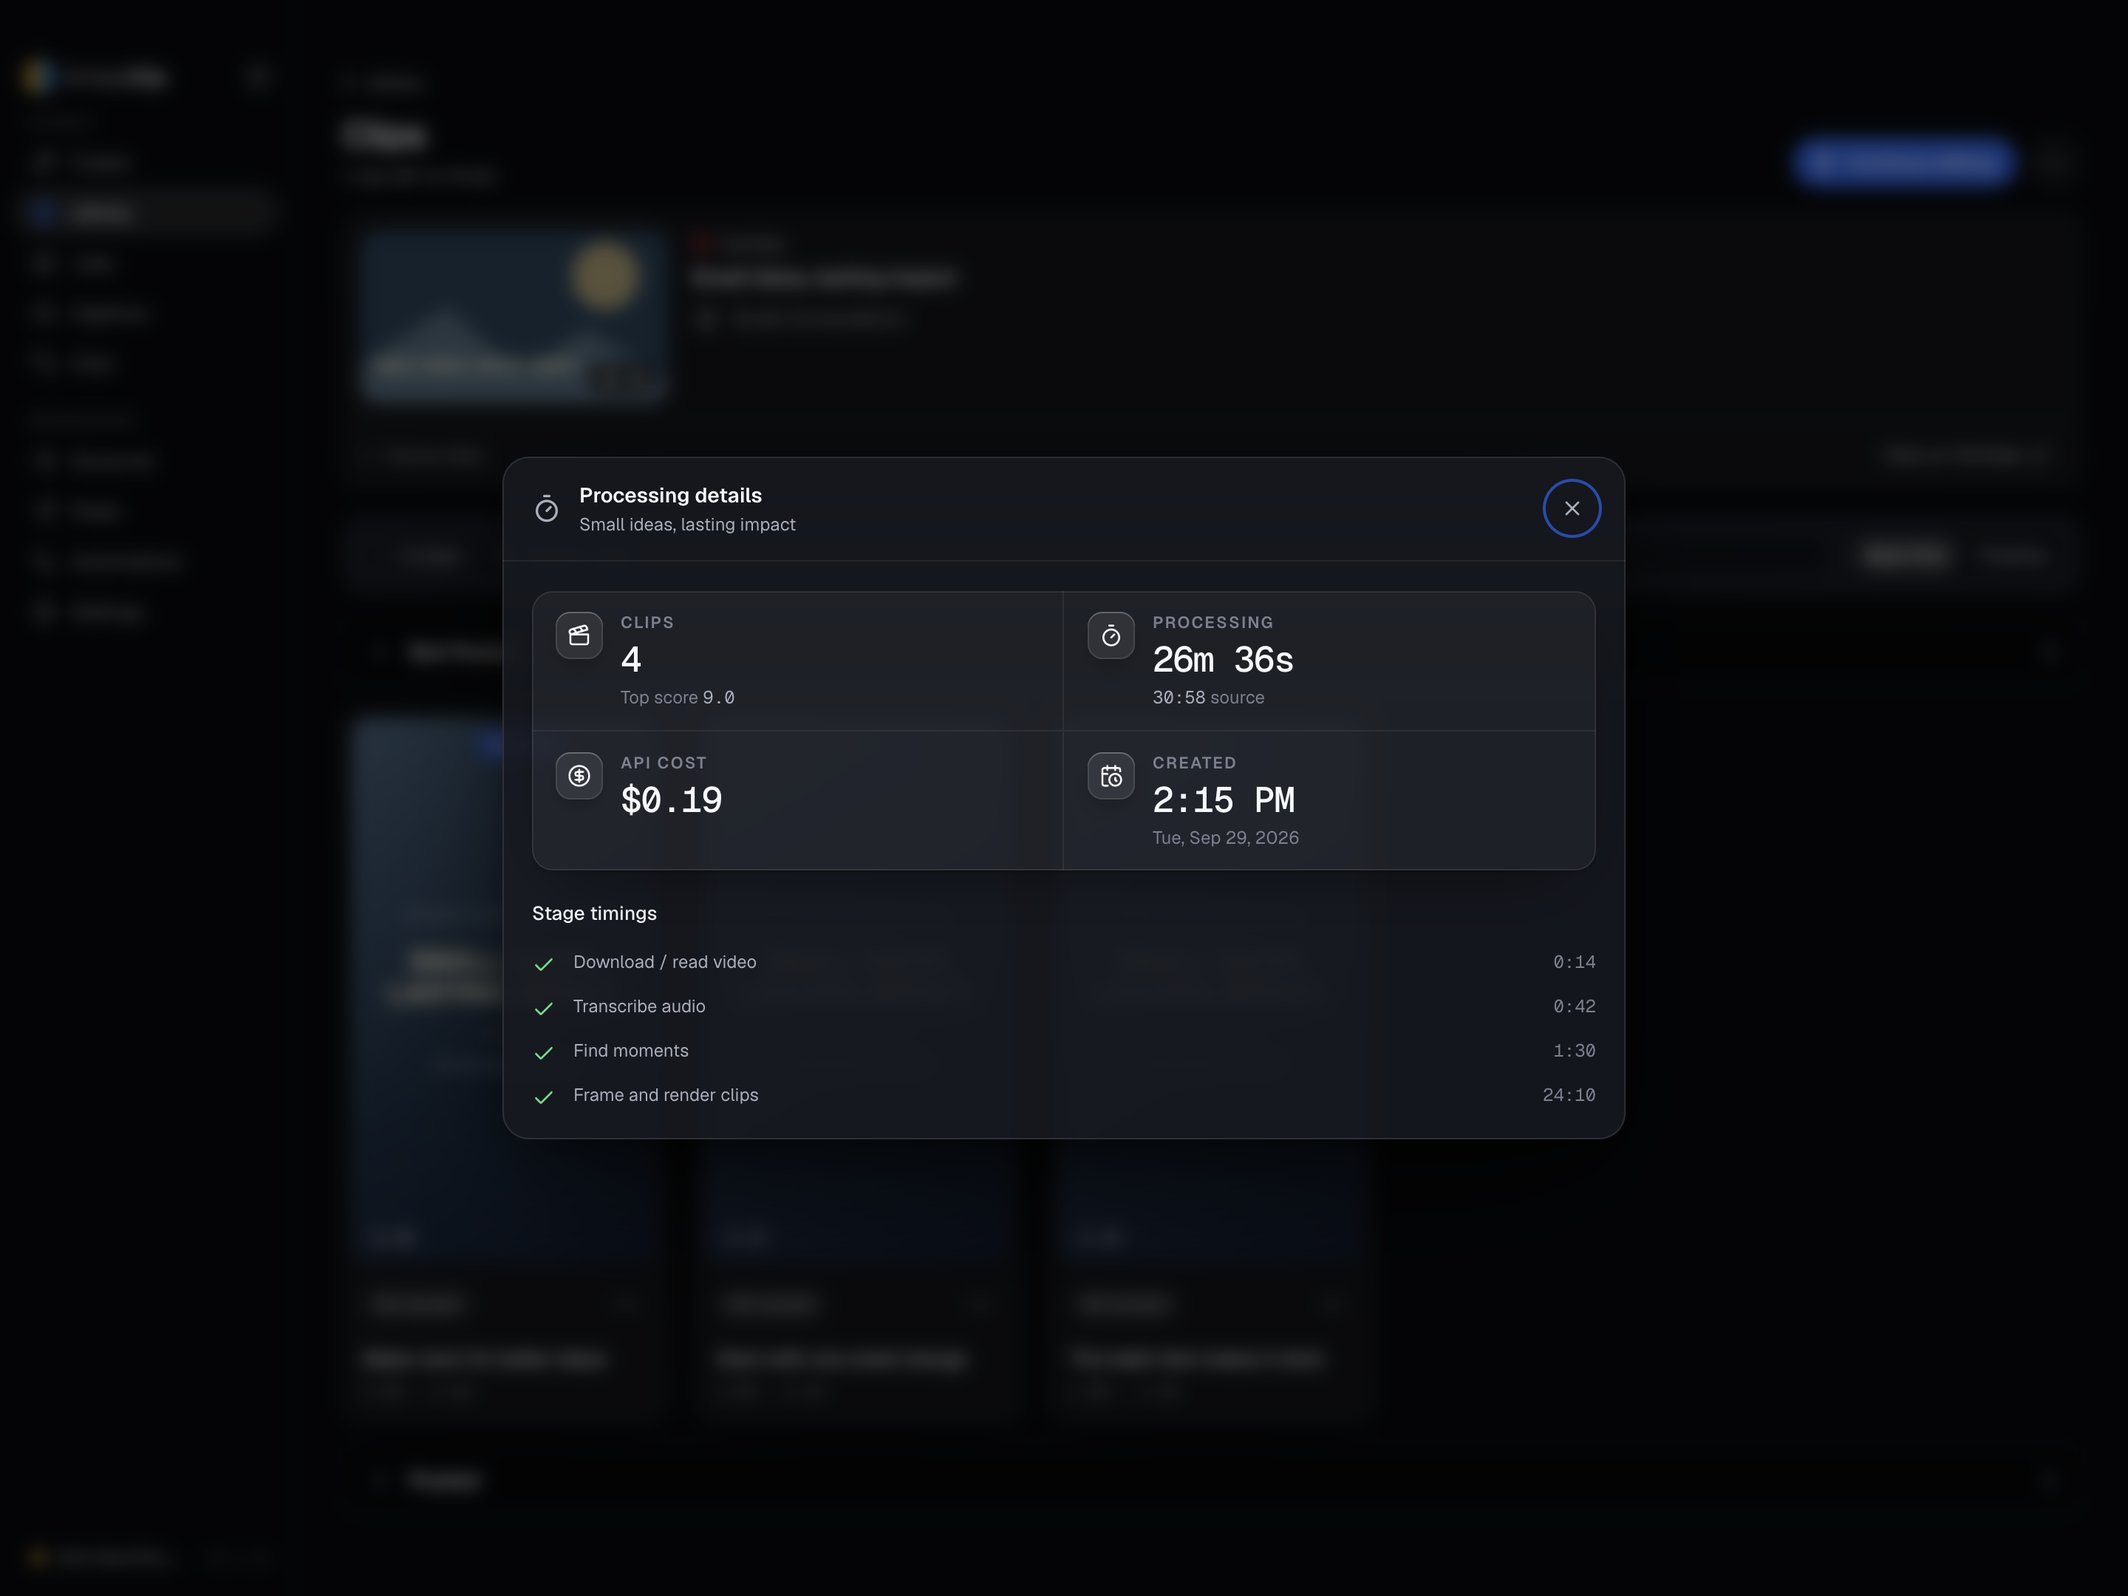
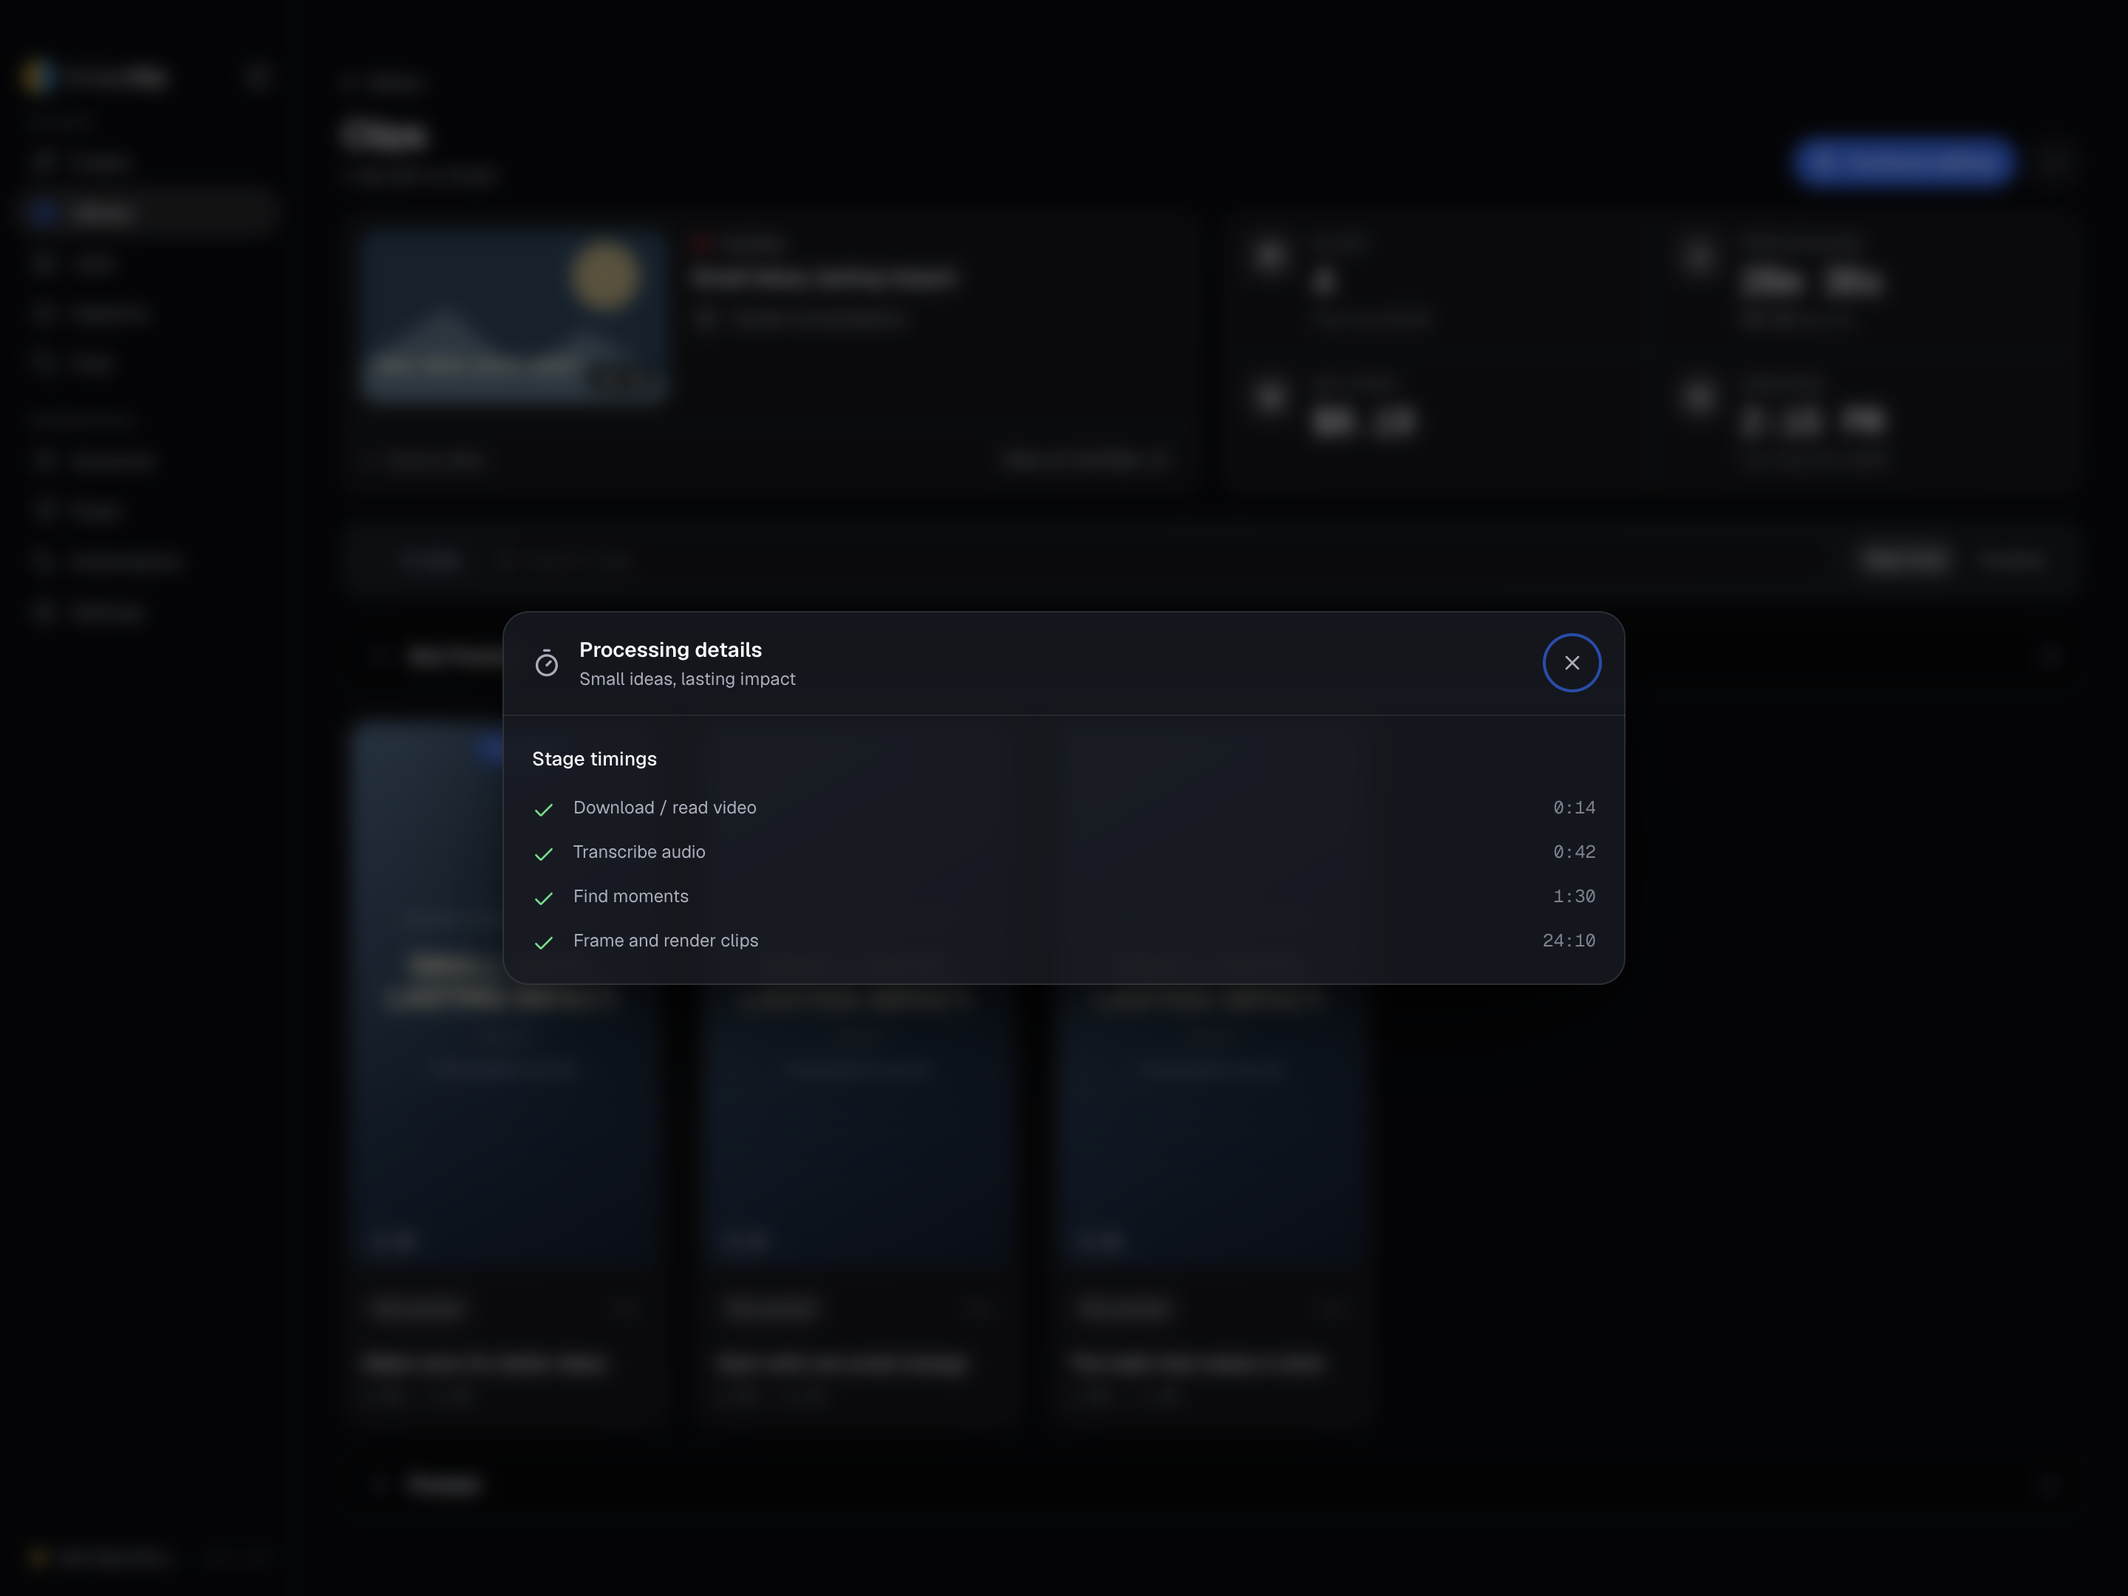
fix(library): keep run stats beside the source preview

diff --git a/src/renderer/components/ClipList.tsx b/src/renderer/components/ClipList.tsx
@@ -13,6 +13,7 @@ import { EditorialWeights } from './EditorialWeights'
 import { defaultWeights, editorialScore } from '../../shared/editorial'
 import { SourcePreview } from './SourcePicker'
 import { RunDetailsDialog } from './RunDetailsDialog'
+import { RunStats } from './RunStats'
 import { ActionMenu } from './ui/ActionMenu'
 import { AddToAutomationDialog } from './AddToAutomationDialog'
 import { PostDialog, type PostableClip } from './PostDialog'
@@ -352,12 +353,13 @@ function GeneratedClipList({ output, outputDir: runDirectory, leading, onNewClip
         </Callout>
       )}
 
-      <div className="mt-4">
-        <SourcePreview key={output.source_video_url} source={output.source_video_url} readOnly saved={{
+      <div className="mt-4 grid gap-4 min-[1100px]:grid-cols-2">
+        <SourcePreview key={output.source_video_url} className="min-w-0" source={output.source_video_url} readOnly saved={{
           title: output.source_video_title || 'Untitled video',
           channel: output.source_video_channel ?? null,
           durationSeconds: output.source_video_duration_seconds
         }} />
+        <RunStats output={output} costs={costs} videoSpeed={typeof videoSpeed === 'number' && videoSpeed > 1 ? videoSpeed : null} />
       </div>
 
       {framingNotice && (
@@ -486,7 +488,7 @@ function GeneratedClipList({ output, outputDir: runDirectory, leading, onNewClip
       {confirm && <ConfirmDialog request={confirm} onClose={closeConfirm} />}
       {posting && <PostDialog clips={posting} onClose={() => setPosting(null)} onNavigate={onNavigate} />}
       {inspectEdits && <EditInspector outputDir={outputDir} onClose={closeInspector} />}
-      {runDetails && <RunDetailsDialog output={output} costs={costs} videoSpeed={typeof videoSpeed === 'number' && videoSpeed > 1 ? videoSpeed : null} onClose={closeRunDetails} />}
+      {runDetails && <RunDetailsDialog output={output} onClose={closeRunDetails} />}
       {bankClips && outputDir && <AddToAutomationDialog
         outputDir={outputDir}
         clipIndices={bankClips}

diff --git a/src/renderer/components/YouTubeSourcePreview.tsx b/src/renderer/components/YouTubeSourcePreview.tsx
@@ -2,13 +2,13 @@ import { useEffect, useState } from 'react'
 import { Check, ExternalLink, RefreshCw, X, Youtube } from 'lucide-react'
 import type { YouTubePreview } from '../../shared/youtube-preview'
 import { getApi } from '../lib/ipc'
-import { formatTimecode } from '../lib/utils'
+import { cn, formatTimecode } from '../lib/utils'
 import { Button } from './ui/Button'
 import { Skeleton } from './ui/Skeleton'
 
 export type SavedSourceMetadata = Pick<YouTubePreview, 'title' | 'channel' | 'durationSeconds'>
 
-export function YouTubeSourcePreview({ url, onClear, onReplace, disabled, readOnly = false, saved }: {
+export function YouTubeSourcePreview({ url, onClear, onReplace, disabled, readOnly = false, saved, className }: {
   /** Canonical YouTube watch URL. */
   url: string
   onClear?: () => void
@@ -17,6 +17,7 @@ export function YouTubeSourcePreview({ url, onClear, onReplace, disabled, readOn
   readOnly?: boolean
   /** Completed runs already have metadata; show it immediately without refetching. */
   saved?: SavedSourceMetadata
+  className?: string
 }): React.JSX.Element {
   const [summary, setSummary] = useState<YouTubePreview | null>(null)
   const [details, setDetails] = useState<YouTubePreview | null>(null)
@@ -53,8 +54,8 @@ export function YouTubeSourcePreview({ url, onClear, onReplace, disabled, readOn
   }
 
   return (
-    <section aria-label="YouTube video preview" className="glass overflow-hidden rounded-2xl animate-fade-in">
-      <div className="flex flex-col gap-3 p-3 sm:flex-row sm:gap-4">
+    <section aria-label="YouTube video preview" className={cn('glass flex flex-col overflow-hidden rounded-2xl animate-fade-in', className)}>
+      <div className="flex flex-1 flex-col gap-3 p-3 sm:flex-row sm:gap-4">
         <div className="relative aspect-video w-full shrink-0 self-start overflow-hidden rounded-xl bg-black/40 sm:w-44 xl:w-52">
           {!imageFailed ? <img
             src={`https://i.ytimg.com/vi/${id}/hqdefault.jpg`} alt="Video thumbnail" draggable={false}

diff --git a/src/renderer/components/RunDetailsDialog.tsx b/src/renderer/components/RunDetailsDialog.tsx
@@ -2,17 +2,14 @@ import { useEffect, useRef } from 'react'
 import { Timer, X } from 'lucide-react'
 import { parseStages } from '../../shared/job-progress'
 import { parseRunDiagnostics } from '../../shared/run-diagnostics'
-import type { ApiCosts, JobOutput } from '../store/use-job-store'
+import type { JobOutput } from '../store/use-job-store'
 import { Button } from './ui/Button'
 import { Dialog } from './ui/Dialog'
-import { RunStats } from './RunStats'
 import { StageBreakdown } from './StageBreakdown'
 import { JobDiagnostics } from './JobDiagnostics'
 
-export function RunDetailsDialog({ output, costs, videoSpeed, onClose }: {
+export function RunDetailsDialog({ output, onClose }: {
   output: JobOutput
-  costs: ApiCosts | null
-  videoSpeed: number | null
   onClose: () => void
 }): React.JSX.Element {
   const panel = useRef<HTMLDivElement>(null)
@@ -46,8 +43,7 @@ export function RunDetailsDialog({ output, costs, videoSpeed, onClose }: {
       <Button ref={close} variant="ghost" iconOnly aria-label="Close processing details" icon={<X className="h-4 w-4" />} onClick={onClose} />
     </header>
     <div className="min-h-0 overflow-y-auto overscroll-contain p-5">
-      <RunStats output={output} costs={costs} videoSpeed={videoSpeed} />
-      <section className="mt-5">
+      <section>
         <h3 className="mb-4 text-sm font-medium">Stage timings</h3>
         {stages.length ? <StageBreakdown stages={stages} /> : <p className="text-xs text-ink-muted">Stage timings weren’t recorded for this run.</p>}
       </section>

diff --git a/src/renderer/components/SourcePicker.tsx b/src/renderer/components/SourcePicker.tsx
@@ -206,7 +206,8 @@ export function SourcePreview({
   onReplace,
   disabled,
   readOnly = false,
-  saved
+  saved,
+  className
 }: {
   source: string
   onClear?: () => void
@@ -214,6 +215,7 @@ export function SourcePreview({
   disabled?: boolean
   readOnly?: boolean
   saved?: SavedSourceMetadata
+  className?: string
 }): React.JSX.Element {
   const link = isUrl(source)
   const ytId = link ? youtubeId(source) : null
@@ -223,10 +225,10 @@ export function SourcePreview({
   const [mediaFailed, setMediaFailed] = useState(false)
   const youtubeUrl = youtubeSourceUrl(source)
 
-  if (youtubeUrl) return <YouTubeSourcePreview readOnly={readOnly} url={youtubeUrl} onClear={onClear} onReplace={onReplace} disabled={disabled} saved={saved} />
+  if (youtubeUrl) return <YouTubeSourcePreview readOnly={readOnly} url={youtubeUrl} onClear={onClear} onReplace={onReplace} disabled={disabled} saved={saved} className={className} />
 
   return (
-    <div className="glass flex flex-col gap-3 rounded-2xl p-3 sm:flex-row sm:items-center sm:gap-4 animate-fade-in">
+    <div className={cn('glass flex flex-col gap-3 rounded-2xl p-3 sm:flex-row sm:items-center sm:gap-4 animate-fade-in', className)}>
       <div className="relative aspect-video w-full sm:w-44 xl:w-52 shrink-0 overflow-hidden rounded-xl bg-black/40 shadow-[inset_0_0_0_1px_rgb(255_255_255/0.08)]">
         {!mediaFailed && ytId && (
           <img

diff --git a/src/renderer/components/RunStats.tsx b/src/renderer/components/RunStats.tsx
@@ -93,7 +93,7 @@ export function RunStats({ output, costs, videoSpeed }: RunStatsProps): React.JS
   )
 
   return (
-    <div role="group" aria-label="Run stats" className="glass grid grid-cols-1 overflow-hidden rounded-2xl min-[640px]:grid-cols-2 [&>*:not(:last-child)]:border-b min-[640px]:[&>*:nth-last-child(2)]:border-b-0 min-[640px]:[&>*:nth-child(odd)]:border-r [&>*]:border-white/[0.06]">
+    <div role="group" aria-label="Run stats" className="glass grid min-w-0 grid-cols-1 overflow-hidden rounded-2xl min-[640px]:grid-cols-2 [&>*:not(:last-child)]:border-b min-[640px]:[&>*:nth-last-child(2)]:border-b-0 min-[640px]:[&>*:nth-child(odd)]:border-r [&>*]:border-white/[0.06]">
       <StatCell
         index={0}
         icon={<Clapperboard />}

diff --git a/docs/screenshots/studio-polish/README.md b/docs/screenshots/studio-polish/README.md
@@ -12,7 +12,7 @@ The **before** images were captured from upstream `main` at `b996820`, except th
 | Create → Captions | ![Original default caption picker](captions-before.png) | ![Caption picker with access to the lab](captions-after.png) |
 | Jobs | ![Unpaginated Previous jobs](jobs-before.png) | ![Previous jobs with a page-size selector](jobs-after.png) |
 | Library | ![Original Library cards](library-before.png) | ![Storage size on Library cards](library-after.png) |
-| Library item details | ![Earlier details with visible advanced tools](library-details-before.png) | ![Source card and compact clip controls](library-details-after.png) |
+| Library item details | ![Earlier details with visible advanced tools](library-details-before.png) | ![Source card beside a 2×2 stats grid and compact clip controls](library-details-after.png) |
 | Delete a Library item | ![Original deletion confirmation](delete-before.png) | ![Space estimate and visual deletion summary](delete-after.png) |
 | Settings → Content storage | ![Original storage total](storage-before.png) | ![Cleanup controls and source storage breakdown](storage-after.png) |
 | Captions editor | ![Earlier draft with repeated preview labels](captions-editor-before.png) | ![Simplified preview and separate padding controls](captions-lab.png) |
@@ -59,9 +59,9 @@ Saving keeps the editor open. Leaving unsaved changes offers save, discard and c
 
 ## Library item details
 
-The source card leads the page, with saved metadata available immediately. Search, sorting and selection share one toolbar; selecting clips reveals the bulk actions. Continue editing remains a primary action. The **…** menu holds transcript inspection, processing details, folder access and post-status refresh. Editorial weights appear only when using Editorial sorting.
+The source card and a compact 2×2 grid of run statistics share the top row equally, with saved metadata available immediately. The panels stack in smaller windows. Search, sorting and selection share one toolbar; selecting clips reveals the bulk actions. Continue editing remains a primary action. The **…** menu holds transcript inspection, processing details, folder access and post-status refresh. Editorial weights appear only when using Editorial sorting.
 
-Processing details keeps costs, run statistics and stage timings accessible without crowding the clips. Keyboard checks cover opening the menu, focus inside the dialog and returning to the menu trigger. Compact-window checks include selection and bulk actions; older runs and unavailable local sources still show their saved title and duration.
+Run statistics stay visible beside the source; the Processing details dialog contains stage timings and model usage. Keyboard checks cover opening the menu, focus inside the dialog and returning to the menu trigger. Compact-window checks include selection and bulk actions; older runs and unavailable local sources still show their saved title and duration.
 
 ![Processing details opened from the menu](library-processing-details.png)
 

diff --git a/docs/usage.md b/docs/usage.md
@@ -100,7 +100,7 @@ New runs show live model requests, input/output tokens and provider-reported cos
 
 ### Find clips and track posting
 
-Inside a Library run, the source card shows the original video's thumbnail, saved title, channel and duration when available. **View on YouTube** opens the original video. **Continue editing** stays visible for unfinished review projects. The header's **…** menu contains **Transcript & edits**, **Processing details**, **Open folder** and **Refresh post status**. Processing details includes run statistics, API costs and recorded stage timings.
+Inside a Library run, the source card shows the original video's thumbnail, saved title, channel and duration when available. A compact 2×2 grid beside it shows clip count, processing time, API cost and creation date; the two panels share the row equally and stack in smaller windows. **View on YouTube** opens the original video. **Continue editing** stays visible for unfinished review projects. The header's **…** menu contains **Transcript & edits**, **Processing details**, **Open folder** and **Refresh post status**. Processing details includes recorded stage timings and model usage.
 
 The clip toolbar keeps **Search clips**, selection and sorting together. Search filters by title, tag or clip number across both posted and unposted clips; bulk actions appear when clips are selected. **Not Posted** and **Posted** are independently collapsible sections with clip counts. **Not Posted** opens by default and appears first; **Posted** starts collapsed below it. Selection applies only to visible results and expanded sections. Editorial ranking weights appear only when sorting by **Editorial**.
 

diff --git a/CHANGELOG.md b/CHANGELOG.md
@@ -35,7 +35,7 @@ The format follows [Keep a Changelog](https://keepachangelog.com/en/1.1.0/). Mai
 
 ### Changed
 
-- Library item details puts the source video and clips first, combines search and sorting in one toolbar, and moves transcript, processing details, folder access and post-status refresh into the **…** menu.
+- Library item details pairs the source video with a compact 2×2 grid of run statistics, combines search and sorting in one toolbar, and moves transcript, stage timings, folder access and post-status refresh into the **…** menu.
 - **Your presets** on the Captions page uses the same cards as Default presets, with three cards per row, preview selection, bookmarks and a compact menu for edit, duplicate and delete.
 
 - Captions previews saved presets directly from their cards and keeps the preview in the same position while editing. Bookmarked styles move smoothly to the front of their list, and bookmark icons move with hovered cards.
